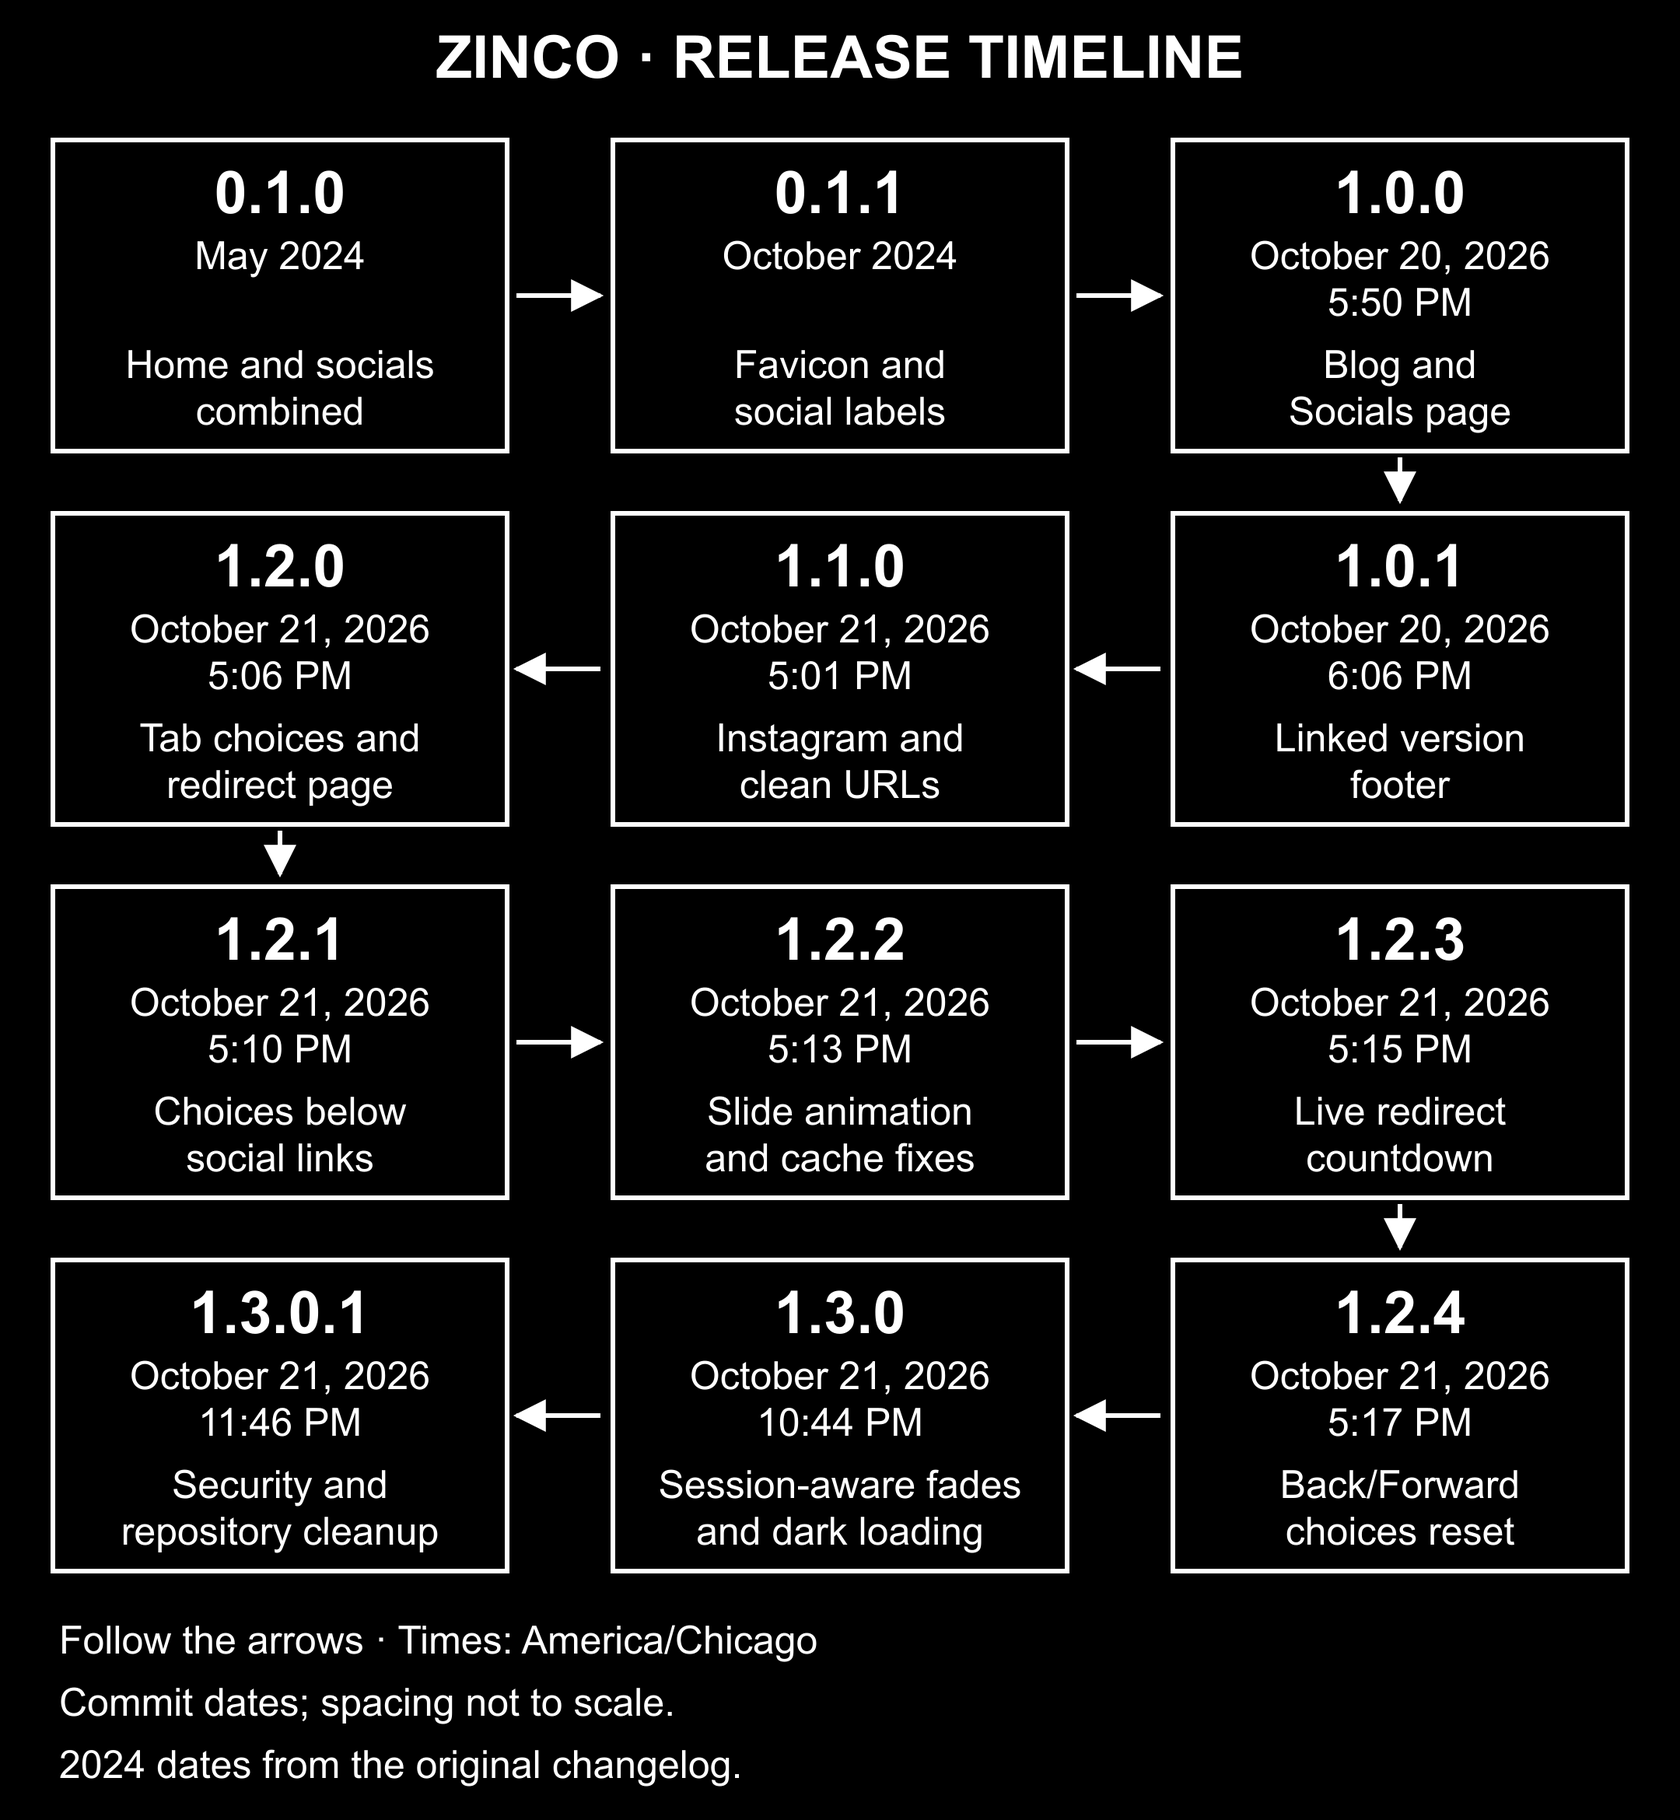
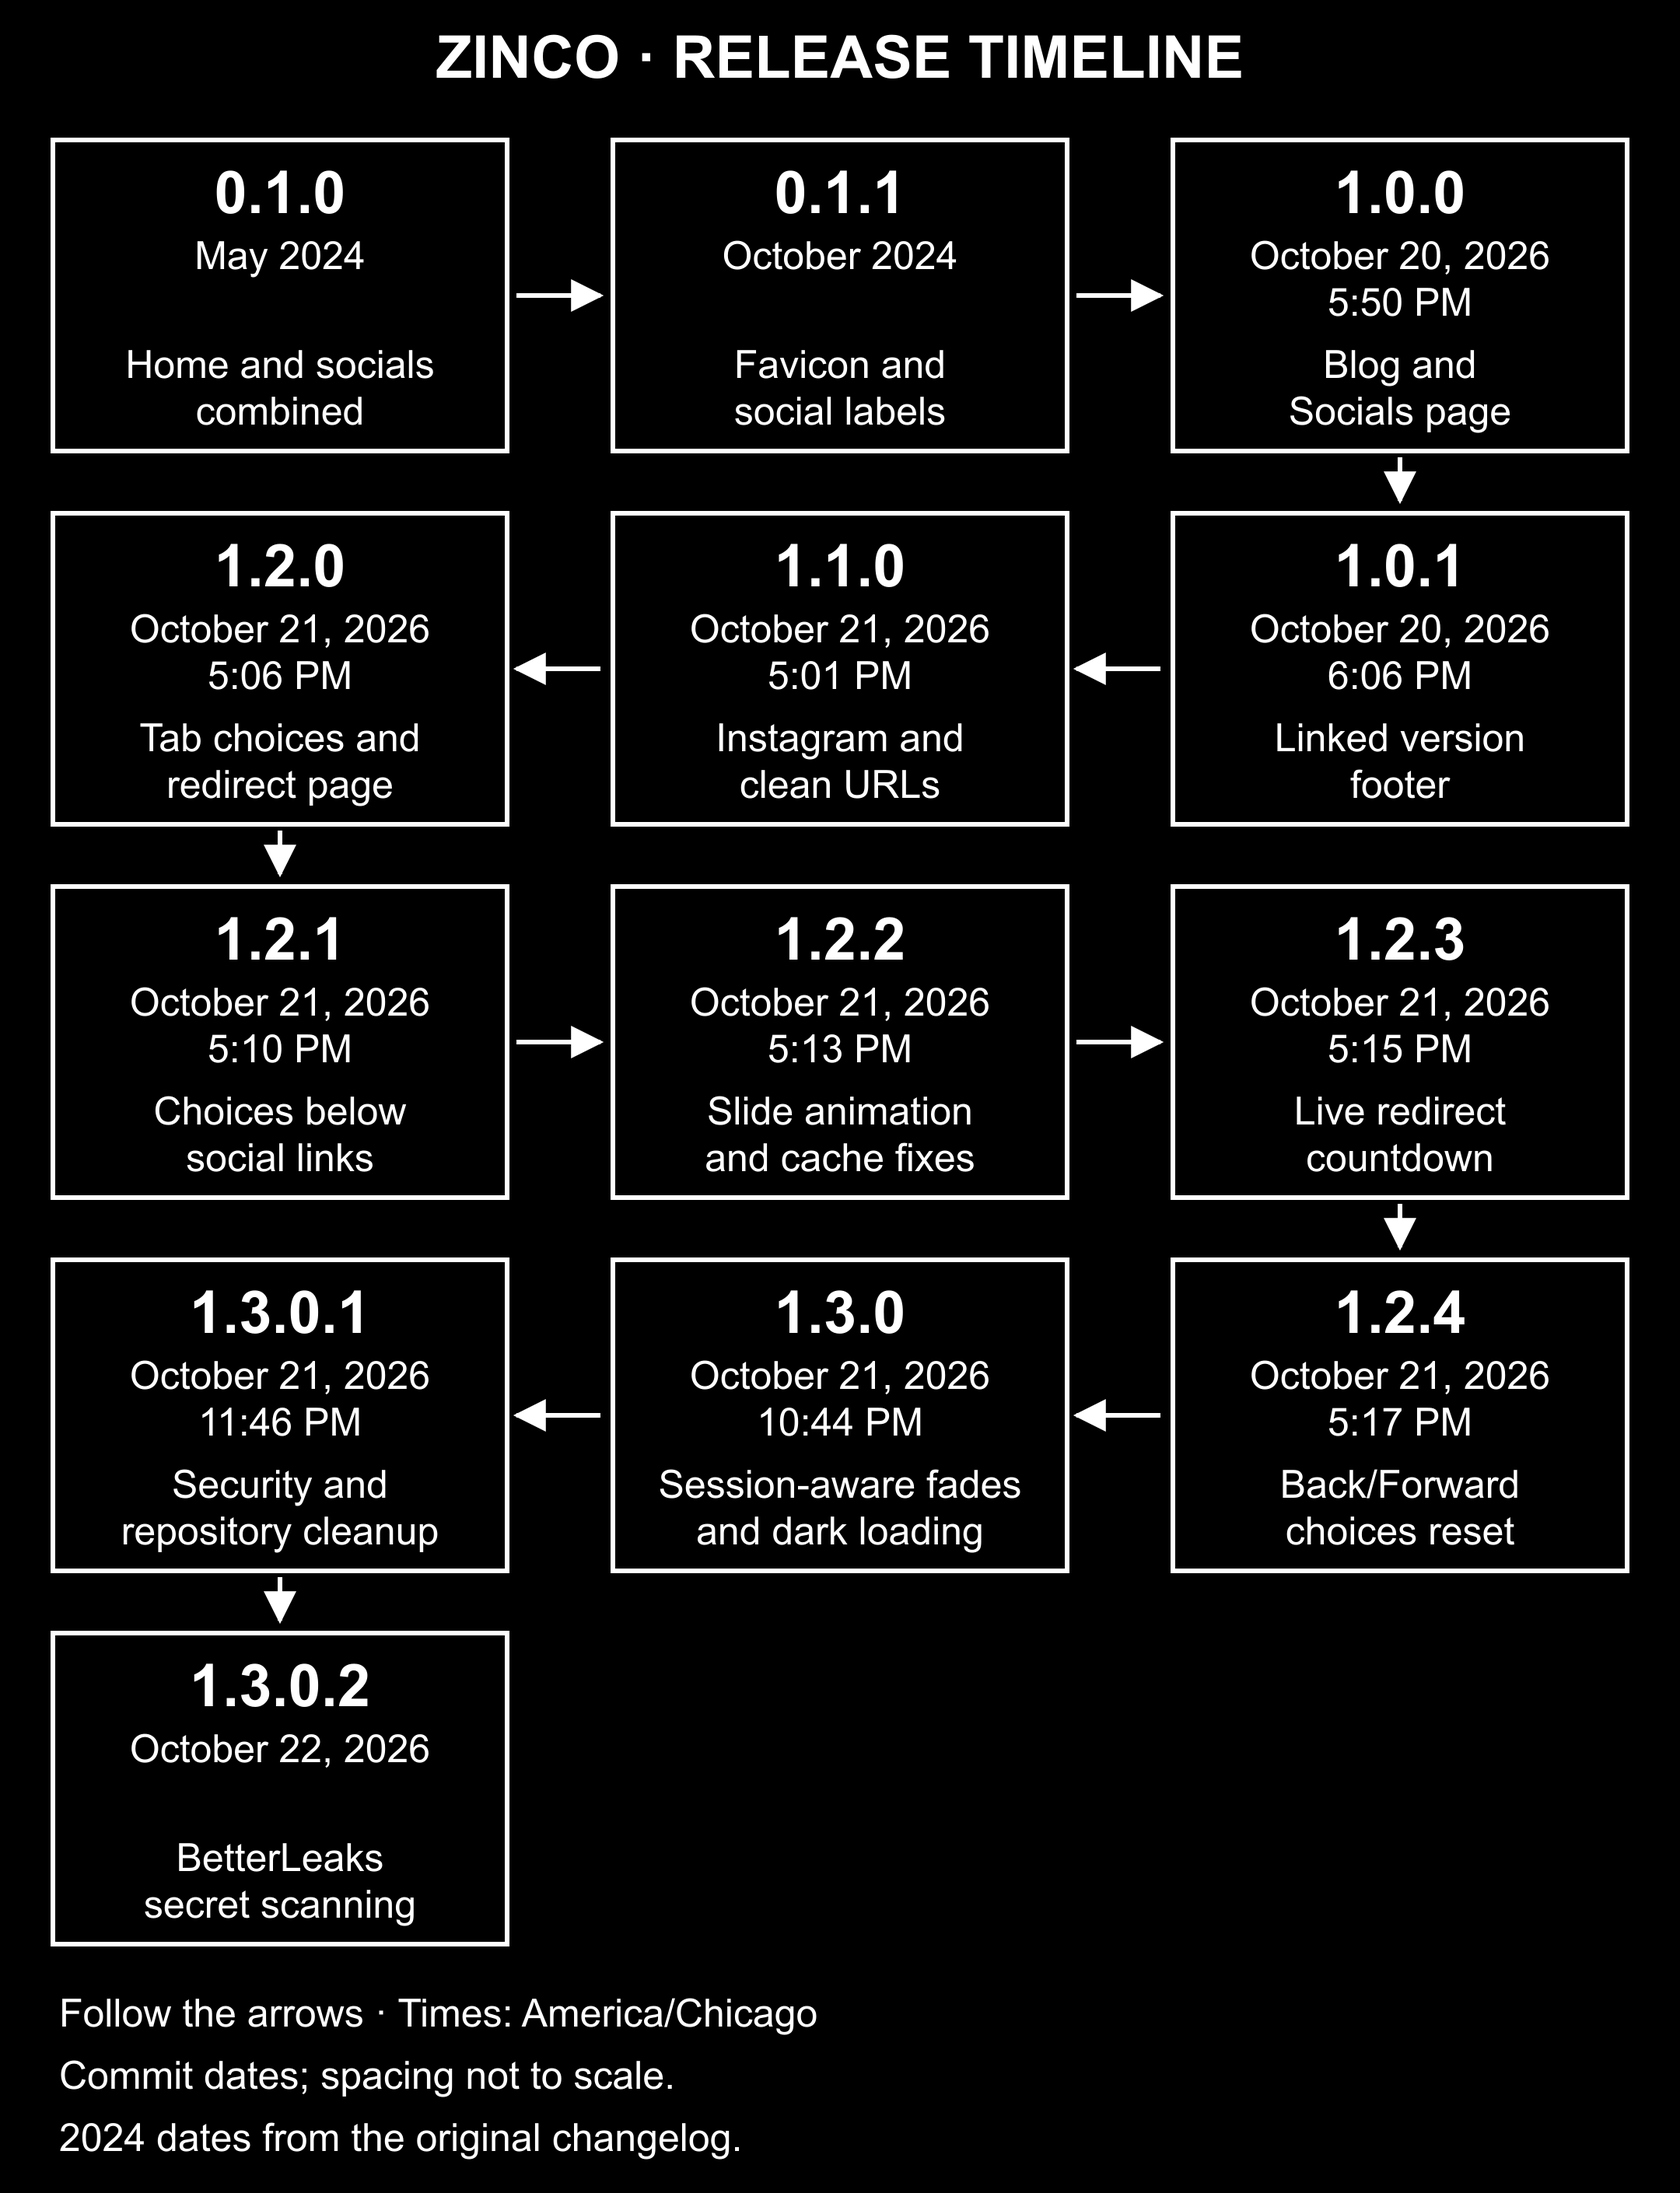
Release v1.3.0.2 with BetterLeaks secret scanning

diff --git a/socials.html b/socials.html
@@ -49,8 +49,8 @@
     <meta name="description" content="Find ZINCO on Discord, TikTok, GitHub, Bluesky, X, YouTube, Twitch, and Instagram.">
     <title>Socials | ZINCO</title>
     <link rel="icon" href="images/favicon.ico">
-    <link rel="stylesheet" href="style.css?v=1.3.0.1">
-    <script src="social-links.js?v=1.3.0.1" defer></script>
+    <link rel="stylesheet" href="style.css?v=1.3.0.2">
+    <script src="social-links.js?v=1.3.0.2" defer></script>
 </head>
 <body class="socials-page">
     <main>
@@ -99,7 +99,7 @@
     </div>
     </main>
     <footer class="site-footer">
-        <a class="site-version" href="https://github.com/zincodrone/zinco.gay-website">v1.3.0.1</a>
+        <a class="site-version" href="https://github.com/zincodrone/zinco.gay-website">v1.3.0.2</a>
         <p class="footer-heart">🖤</p>
     </footer>
 </body>

diff --git a/redirect.html b/redirect.html
@@ -12,8 +12,8 @@
     <meta name="robots" content="noindex">
     <title>Leaving ZINCO</title>
     <link rel="icon" href="images/favicon.ico">
-    <link rel="stylesheet" href="style.css?v=1.3.0.1">
-    <script src="social-links.js?v=1.3.0.1" defer></script>
+    <link rel="stylesheet" href="style.css?v=1.3.0.2">
+    <script src="social-links.js?v=1.3.0.2" defer></script>
 </head>
 <body>
     <main>
@@ -35,7 +35,7 @@
         </section>
     </main>
     <footer class="site-footer">
-        <a class="site-version" href="https://github.com/zincodrone/zinco.gay-website">v1.3.0.1</a>
+        <a class="site-version" href="https://github.com/zincodrone/zinco.gay-website">v1.3.0.2</a>
         <p class="footer-heart">🖤</p>
     </footer>
 </body>

diff --git a/blog/welcome.html b/blog/welcome.html
@@ -30,7 +30,7 @@
     <meta name="description" content="Welcome to ZINCO's blog: a new home for thoughts and updates.">
     <title>Welcome! | ZINCO</title>
     <link rel="icon" href="../images/favicon.ico">
-    <link rel="stylesheet" href="../style.css?v=1.3.0.1">
+    <link rel="stylesheet" href="../style.css?v=1.3.0.2">
 </head>
 <body class="blog-page">
     <main>
@@ -52,7 +52,7 @@
         </article>
     </main>
     <footer class="site-footer">
-        <a class="site-version" href="https://github.com/zincodrone/zinco.gay-website">v1.3.0.1</a>
+        <a class="site-version" href="https://github.com/zincodrone/zinco.gay-website">v1.3.0.2</a>
         <p class="footer-heart">🖤</p>
     </footer>
 </body>

diff --git a/blog/index.html b/blog/index.html
@@ -30,7 +30,7 @@
     <meta name="description" content="Thoughts, updates, and writing from ZINCO.">
     <title>Blog | ZINCO</title>
     <link rel="icon" href="../images/favicon.ico">
-    <link rel="stylesheet" href="../style.css?v=1.3.0.1">
+    <link rel="stylesheet" href="../style.css?v=1.3.0.2">
 </head>
 <body class="blog-page">
     <main>
@@ -54,7 +54,7 @@
         </section>
     </main>
     <footer class="site-footer">
-        <a class="site-version" href="https://github.com/zincodrone/zinco.gay-website">v1.3.0.1</a>
+        <a class="site-version" href="https://github.com/zincodrone/zinco.gay-website">v1.3.0.2</a>
         <p class="footer-heart">🖤</p>
     </footer>
 </body>

diff --git a/index.html b/index.html
@@ -29,7 +29,7 @@
     <meta name="viewport" content="width=device-width, initial-scale=1.0">
     <title>ZINCO</title>
     <link rel="icon" href="images/favicon.ico">
-    <link rel="stylesheet" href="style.css?v=1.3.0.1">
+    <link rel="stylesheet" href="style.css?v=1.3.0.2">
 </head>
 <body class="home-page">
     <main>
@@ -55,7 +55,7 @@
     </main>
 
     <footer class="site-footer">
-        <a class="site-version" href="https://github.com/zincodrone/zinco.gay-website">v1.3.0.1</a>
+        <a class="site-version" href="https://github.com/zincodrone/zinco.gay-website">v1.3.0.2</a>
         <p class="footer-heart">🖤</p>
     </footer>
 </body>

diff --git a/README.md b/README.md
@@ -17,11 +17,11 @@ Pushes to `main` automatically update and deploy the website through the cPanel 
 
 ## Repository security
 
-GitHub Actions scans pushes and pull requests for exposed secrets with a pinned, checksum-verified Gitleaks release. Scanner findings redact secret values. Local environment files and private-key files are excluded from Git by `.gitignore`; real credentials belong in GitHub Actions secrets. These checks reduce accidental exposure but do not guarantee that every security issue will be detected.
+GitHub Actions scans the full fetched Git history on pushes, pull requests, and manual runs using [BetterLeaks v1.9.0](https://github.com/betterleaks/betterleaks/releases/tag/v1.9.0). The release archive is pinned and verified against its SHA-256 checksum before execution. Secret values are fully redacted, and live credential validation is explicitly disabled. The scan uses read-only repository permissions and does not retain checkout credentials. Local environment files and private-key files are excluded from Git by `.gitignore`; real credentials belong in GitHub Actions secrets. These checks reduce accidental exposure but do not guarantee that every security issue will be detected.
 
 # Changelog
 
-Current version: **1.3.0.1**.
+Current version: **1.3.0.2**.
 
 New releases use `major.minor.patch.security`: major for substantial redesigns or changes that break existing behavior, minor for new features, patch for ordinary fixes or small maintenance updates, and security for security updates and related cleanup. Increment the applicable number and reset every number to its right to zero. After `1.3.0.1`, another security update would be `1.3.0.2`, an ordinary patch would be `1.3.1.0`, a new feature would be `1.4.0.0`, and a major release would be `2.0.0.0`. When changes span categories, use the highest applicable component.
 
@@ -33,7 +33,14 @@ Every update must update this README and the website version together, including
 
 Follow the arrows from the earliest release to the latest, snaking across each row. Times are in America/Chicago and reflect when each version was committed, not when it was deployed to the live website. The 2024 entries retain the months recorded in the original changelog; exact release days were not recorded there. Spacing between releases is not to scale.
 
-![Snaking release timeline from version 0.1.0 through 1.3.0.1](images/changelog-timeline-snake.png)
+![Snaking release timeline from version 0.1.0 through 1.3.0.2](images/changelog-timeline-snake.png)
+
+## 1.3.0.2 — October 22, 2026 (security update)
+
+- Replaced Gitleaks with BetterLeaks v1.9.0 for automatic and manual secret scans.
+- Pinned BetterLeaks to its stable release and verified the downloaded archive against its SHA-256 checksum.
+- Preserved full-history scanning, complete secret redaction, read-only repository permissions, and disabled checkout credential persistence.
+- Explicitly disabled live credential validation so the scan does not test detected values against provider APIs.
 
 ## 1.3.0.1 — October 21, 2026 (security update)
 
